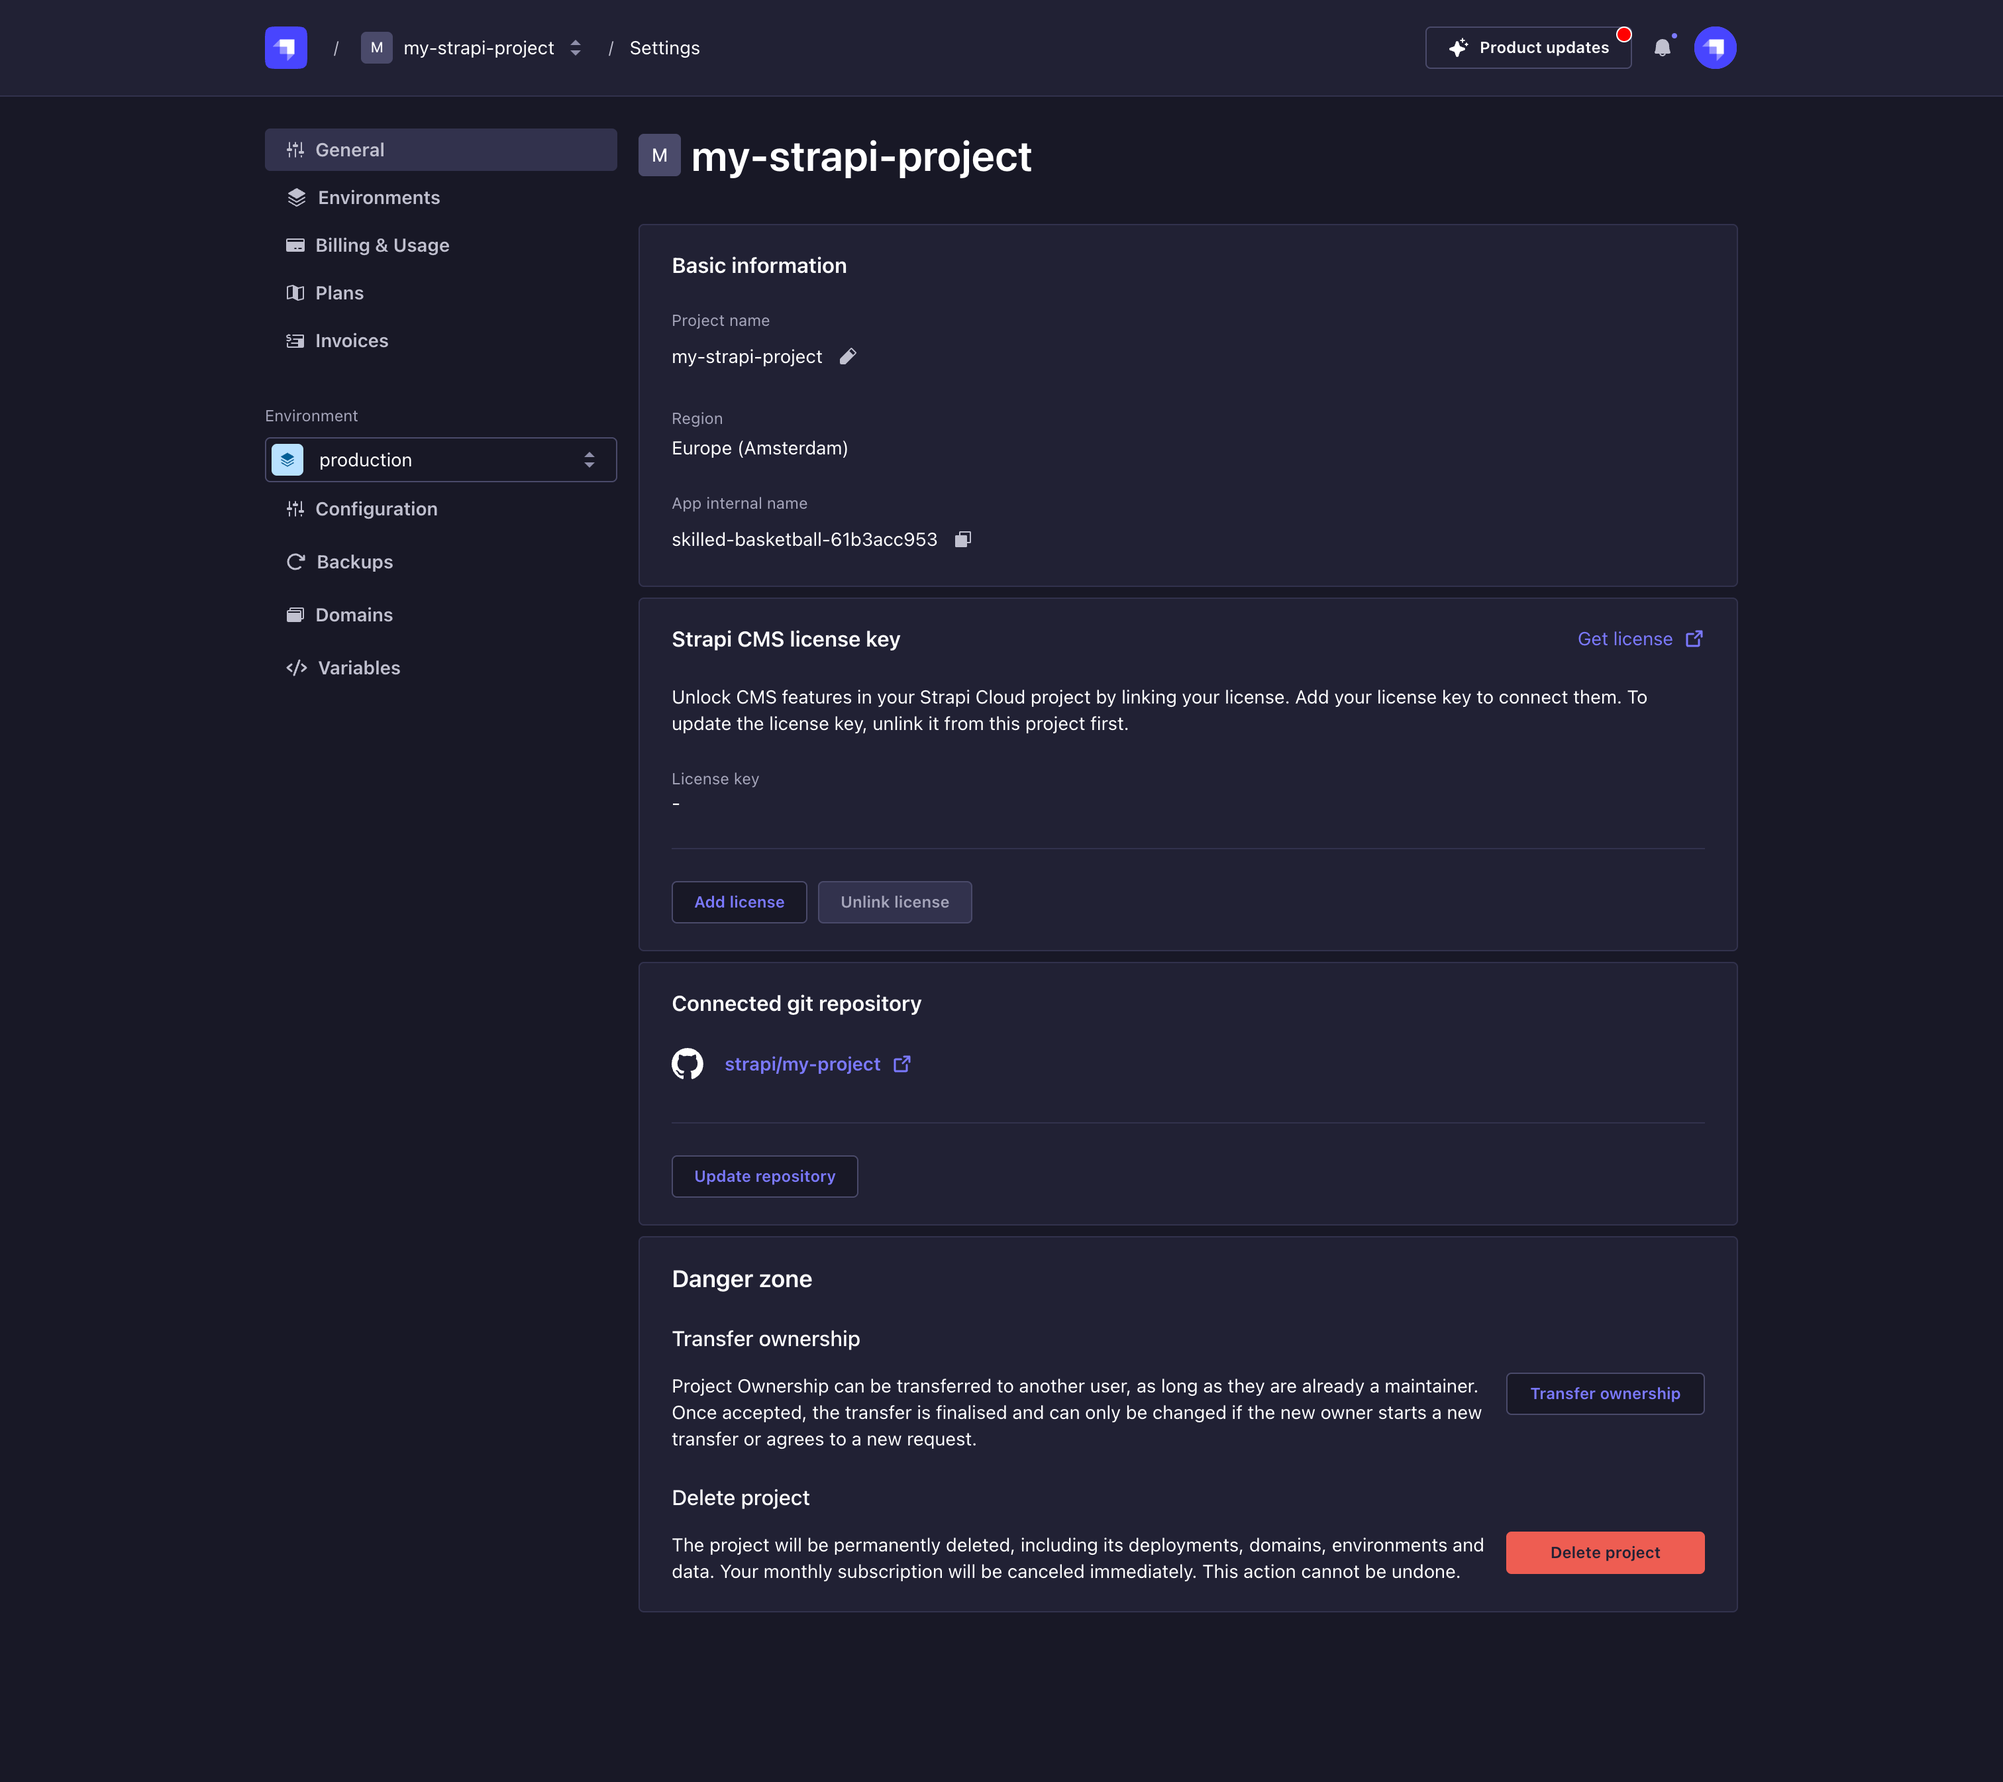
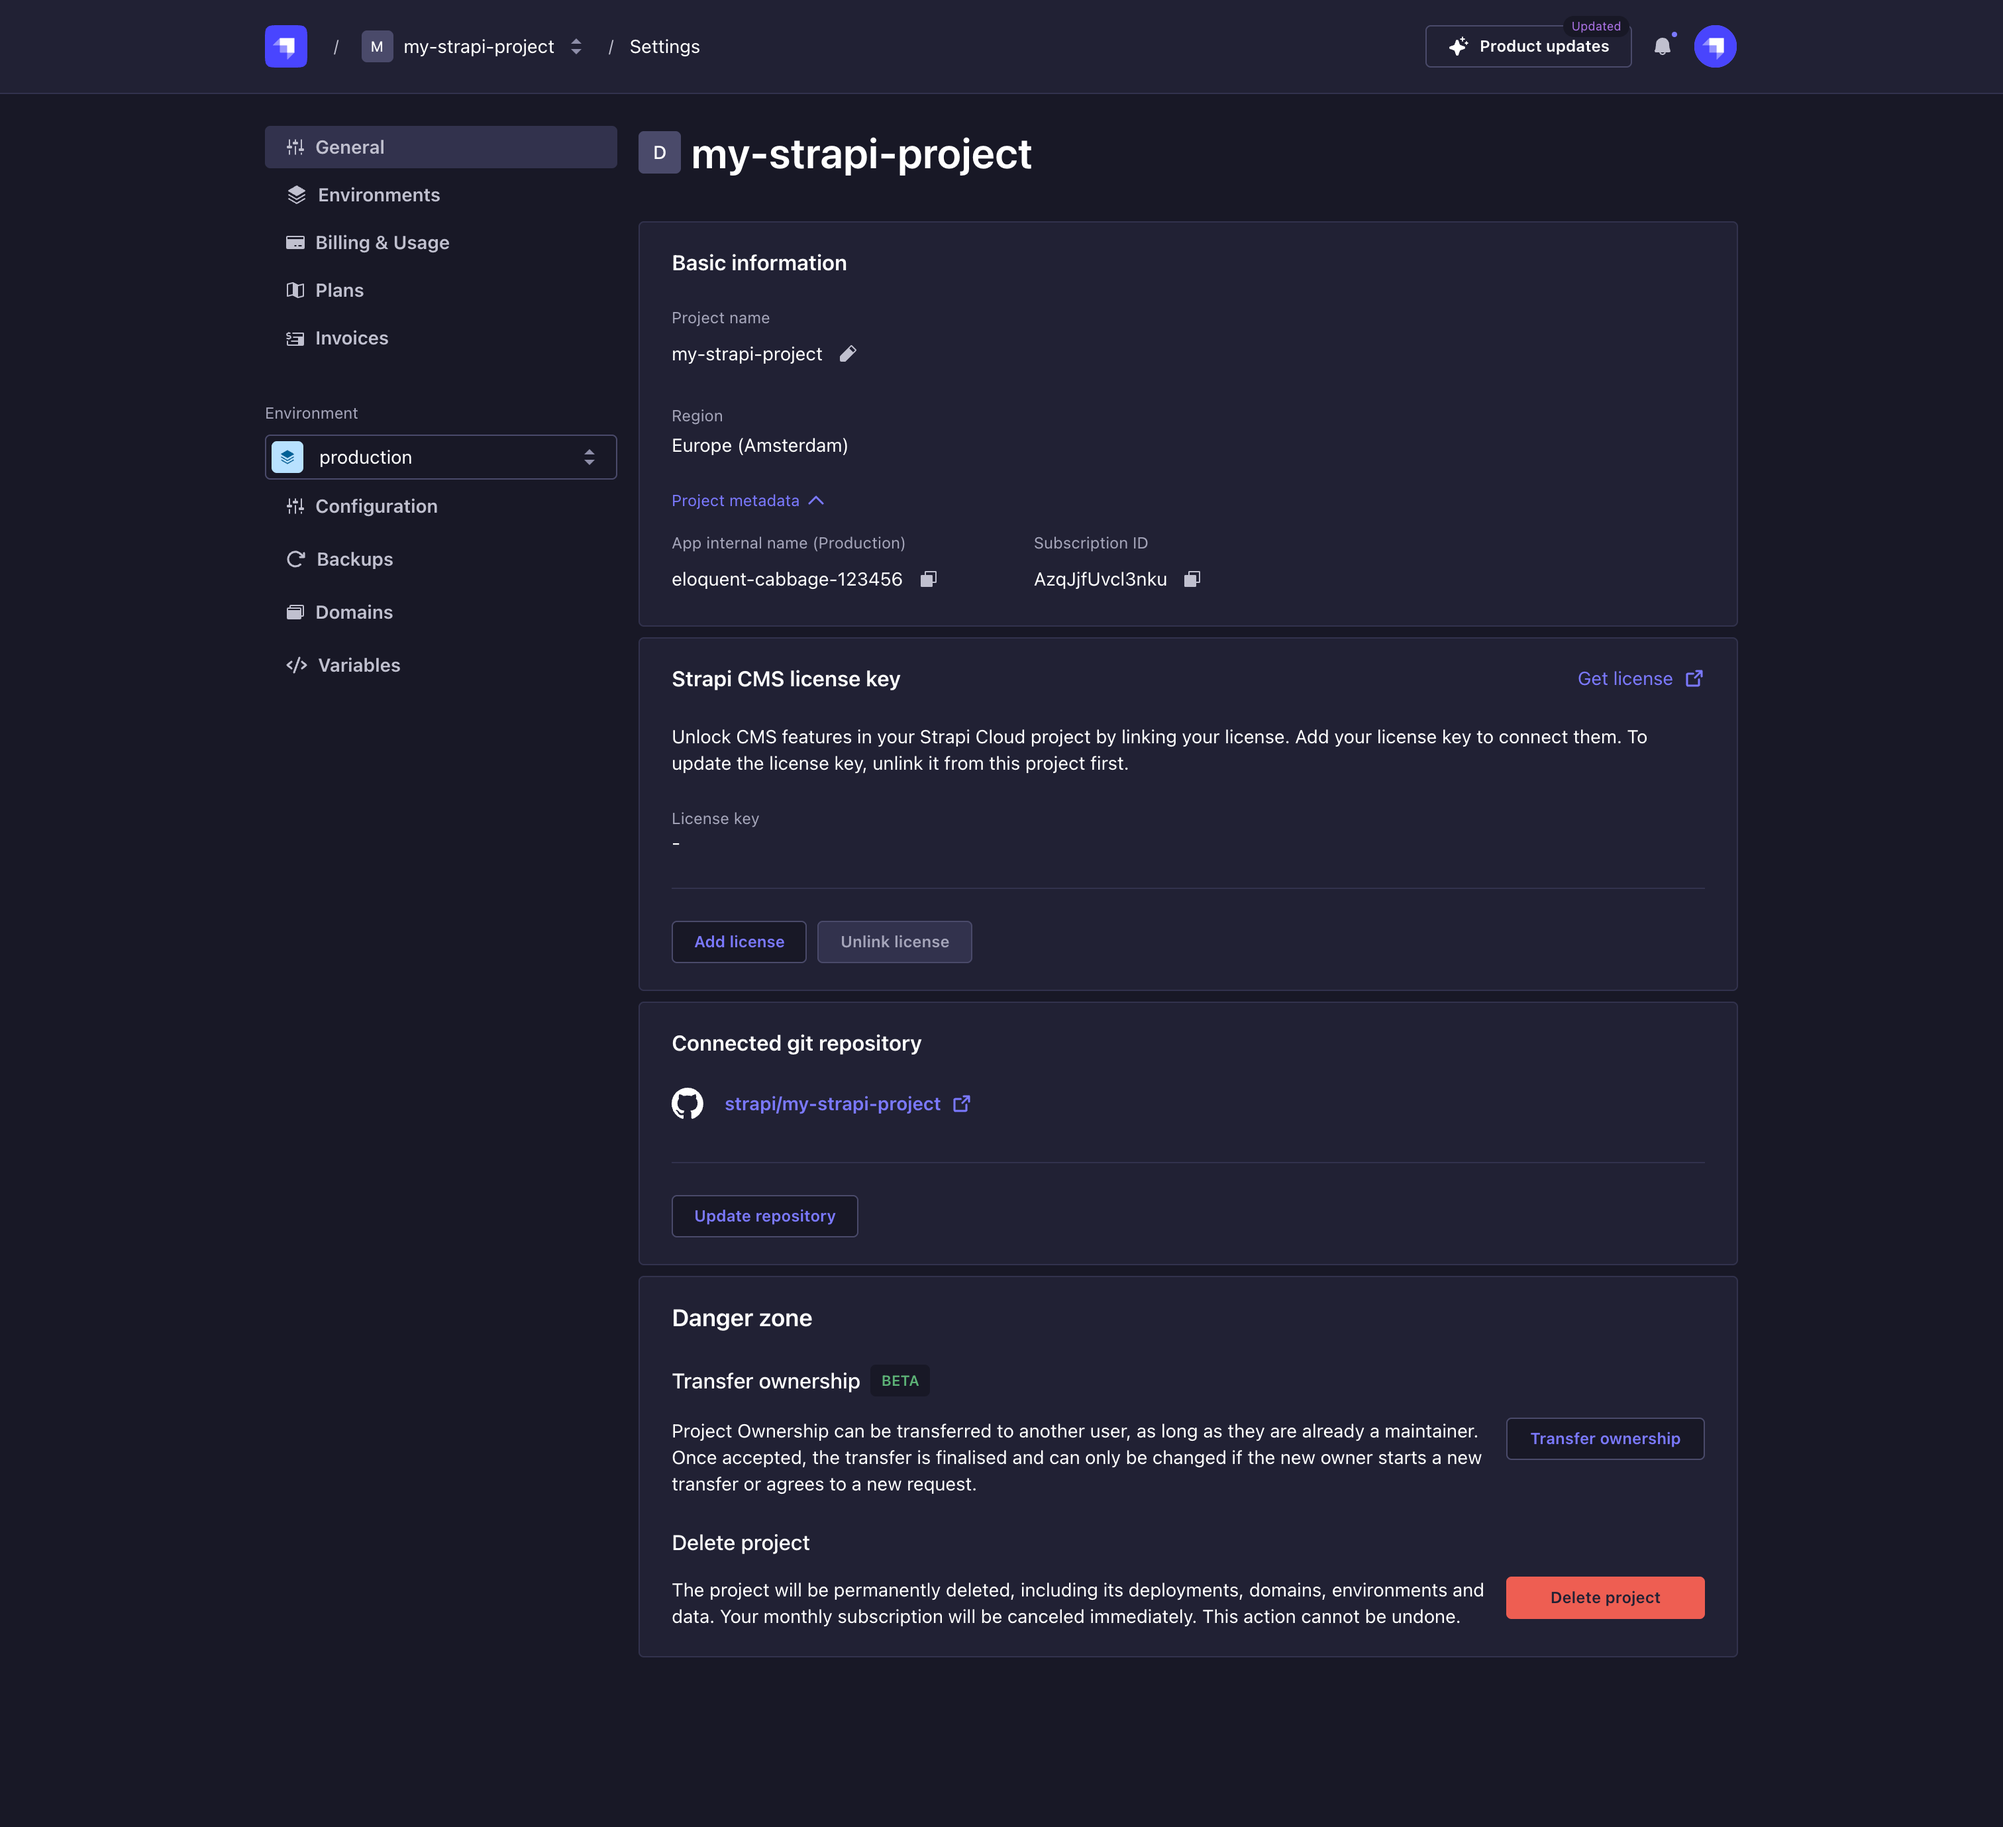
Display Subscription ID in the project settings (#2761)
* chore: context for the subscription ID

* chore: screenshot update for the subcription ID

diff --git a/docusaurus/docs/cloud/projects/settings.md b/docusaurus/docs/cloud/projects/settings.md
@@ -40,7 +40,7 @@ The <Icon name="faders" /> *General* tab for the project-level settings enables 
 - *Basic information*, to see:
   - the name of your Strapi Cloud project — used to identify the project on the Cloud Dashboard, Strapi CLI, and deployment URLs — and change it (see [Renaming project](#renaming-project)).
   - the chosen hosting region for your Strapi Cloud project, meaning the geographical location of the servers where the project and its data and resources are stored. The hosting region is set at project creation (see [Project creation](/cloud/getting-started/deployment)) and cannot be modified afterwards.
-  - the app's internal name for the project, which can be useful for debug & support purposes.
+  - the project's metadata, including the Production app internal name and the Subscription ID, which can be useful for debugging & support purposes.
 - *Strapi CMS license key*: to enable and use some CMS features directly on your Cloud project (see [Pricing page](https://strapi.io/pricing-self-hosted) to purchase a license).
 
 - *Connected Git repository*: to change the repository and branch used for your project (see [Modifying git repository & branch](#modifying-git-repository--branch)). Also allows to enable/disable the "deploy on push" option.
